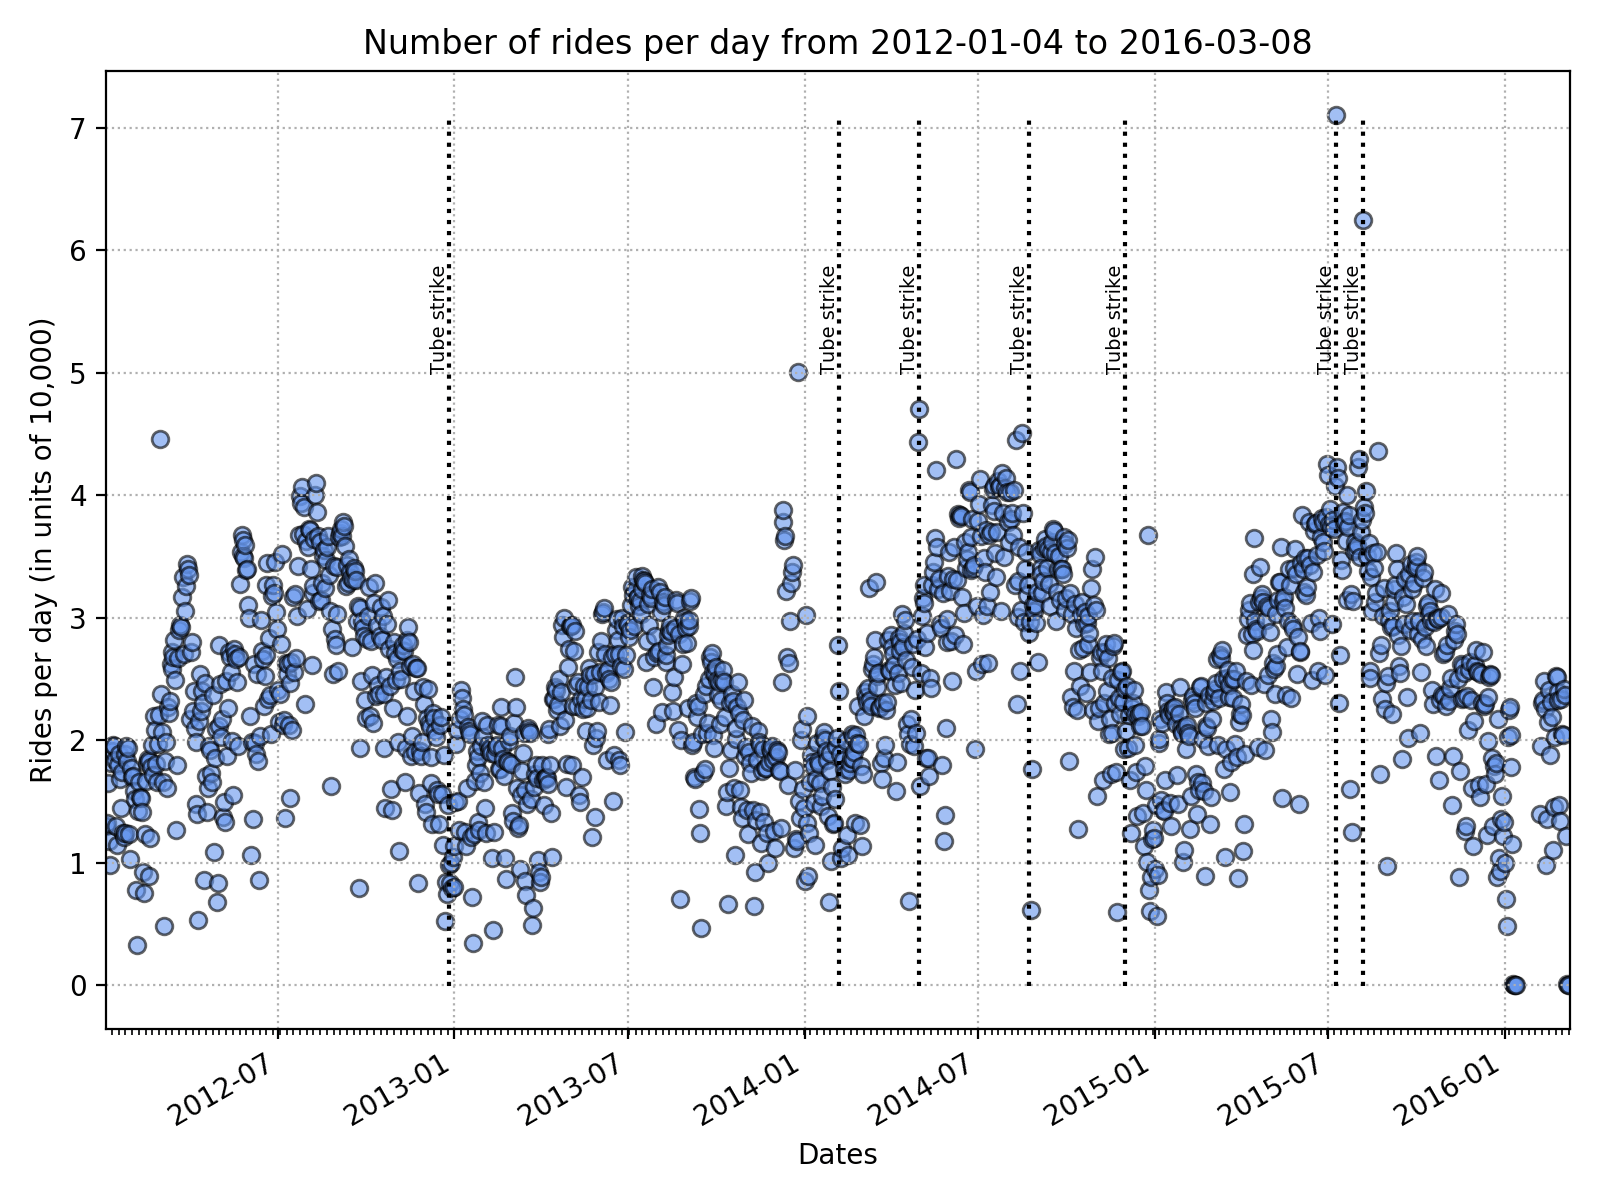
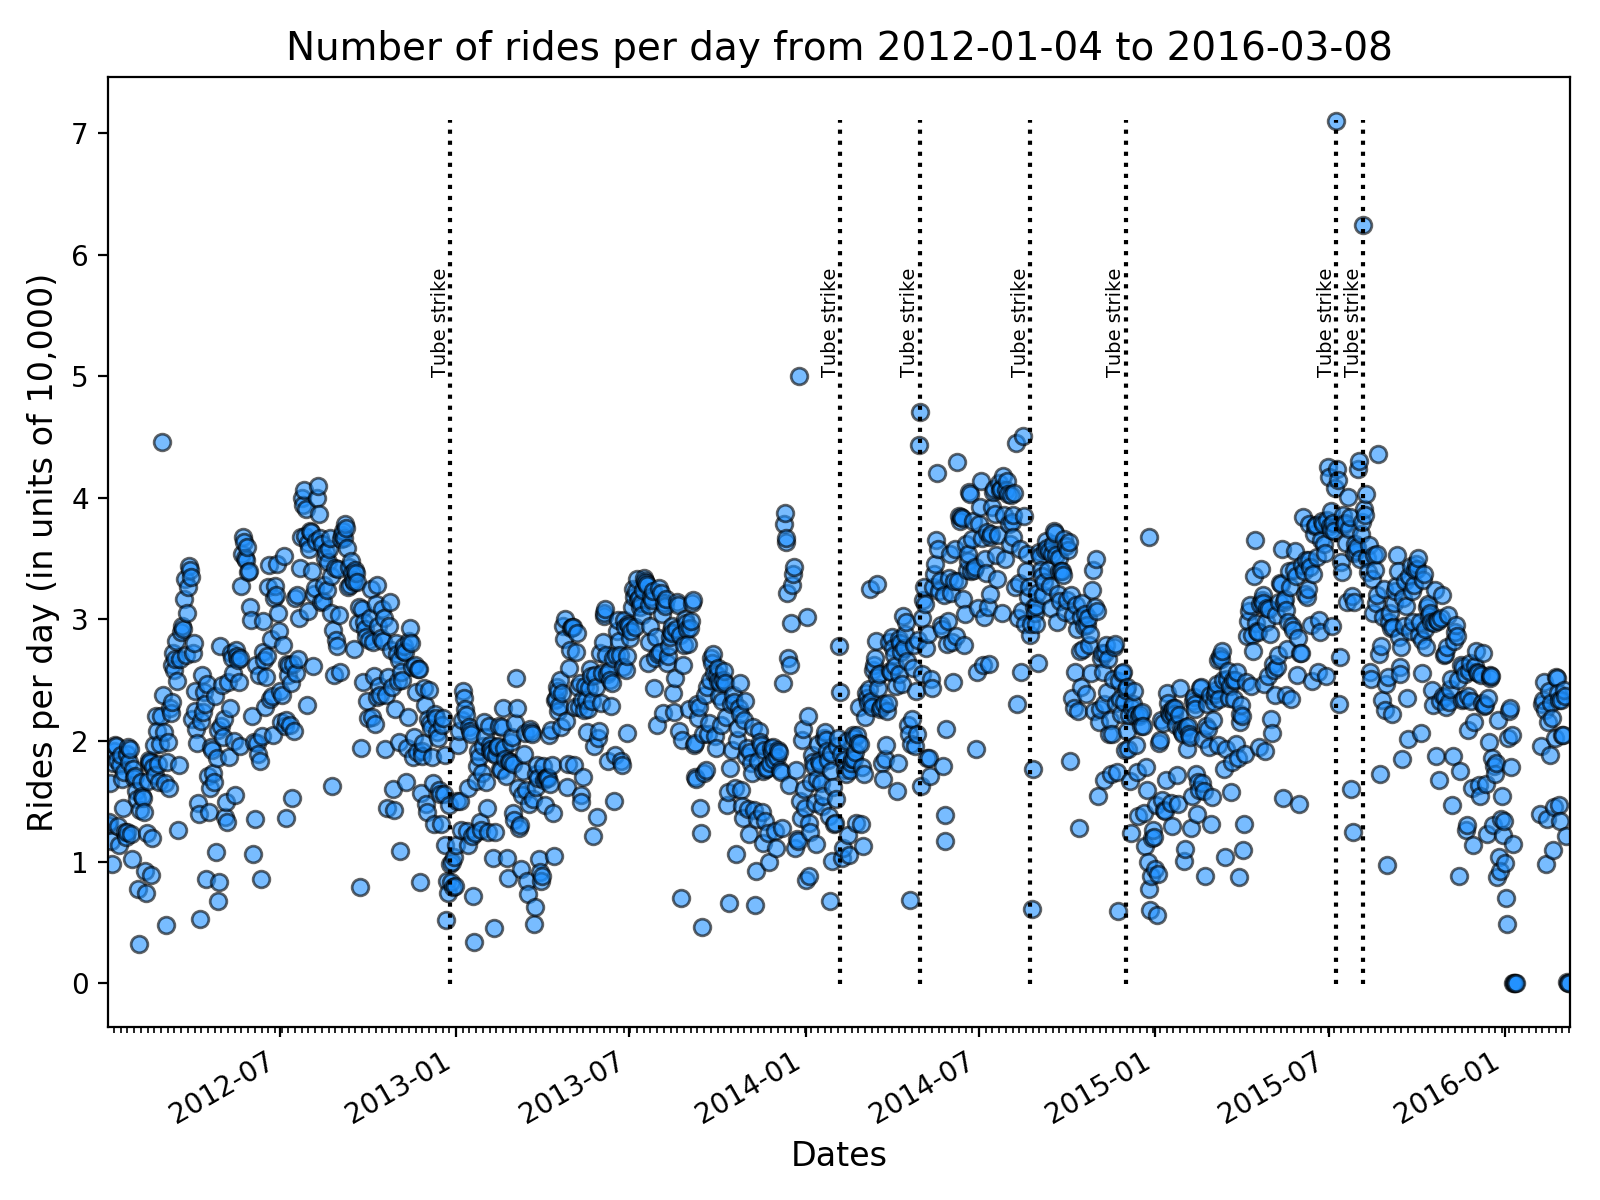
Removed grid and changed plot color

diff --git a/exploratory_data_analysis/rides.py b/exploratory_data_analysis/rides.py
@@ -36,7 +36,7 @@ days = bike_df['Day'].loc[filter_]
 rides = bike_df['Sum_Journeys'].loc[filter_]
 fig, axes = plt.subplots(figsize=(8, 6))
 axes.scatter(days, rides/1e4, alpha=0.6, marker='o',
-             color='cornflowerblue', edgecolor='k')
+             color='dodgerblue', edgecolor='k')
 
 # London tube strikes, in tuples with years, months and days
 # complete_london_tube_strike_list = [(2012, 12, 26), (2014, 2, 4), (2014, 2, 5), (2014, 2, 6), (2014, 4, 28), (2014, 4, 29), (2014, 4, 30), (2014, 8, 22), (2014, 8, 23), (2014, 12, 1), (2015, 7, 8), (2015, 7, 9), (2015, 8, 5), (2015, 8, 6)]
@@ -66,11 +66,11 @@ axes.set_xlim(datemin, datemax)
 fig.autofmt_xdate()
 
 # set axes labels
-axes.set_xlabel('Dates')
-axes.set_ylabel('Rides per day (in units of 10,000)')
+axes.set_xlabel('Dates', fontsize=12)
+axes.set_ylabel('Rides per day (in units of 10,000)', fontsize=12)
 axes.set_title(
-    f'Number of rides per day from {days.min():%Y-%m-%d} to {days.max():%Y-%m-%d}')
+    f'Number of rides per day from {days.min():%Y-%m-%d} to {days.max():%Y-%m-%d}', fontsize=14)
 fig.tight_layout()
-axes.grid(linestyle=':')
+# axes.grid(linestyle=':')
 print(f'Time elapsed: {time() - t0:.2f} seconds')
 plt.show()
